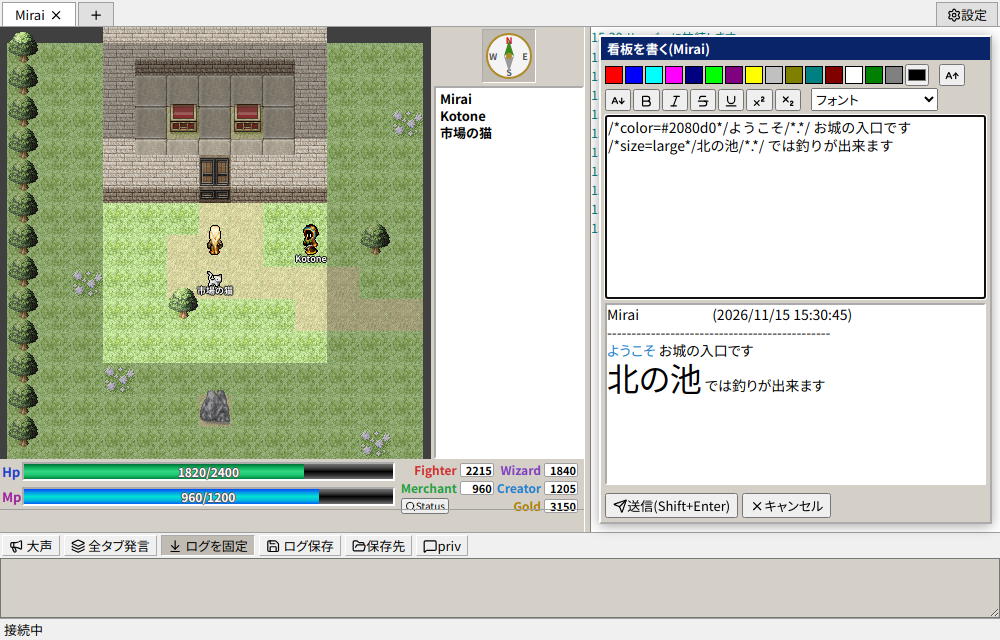
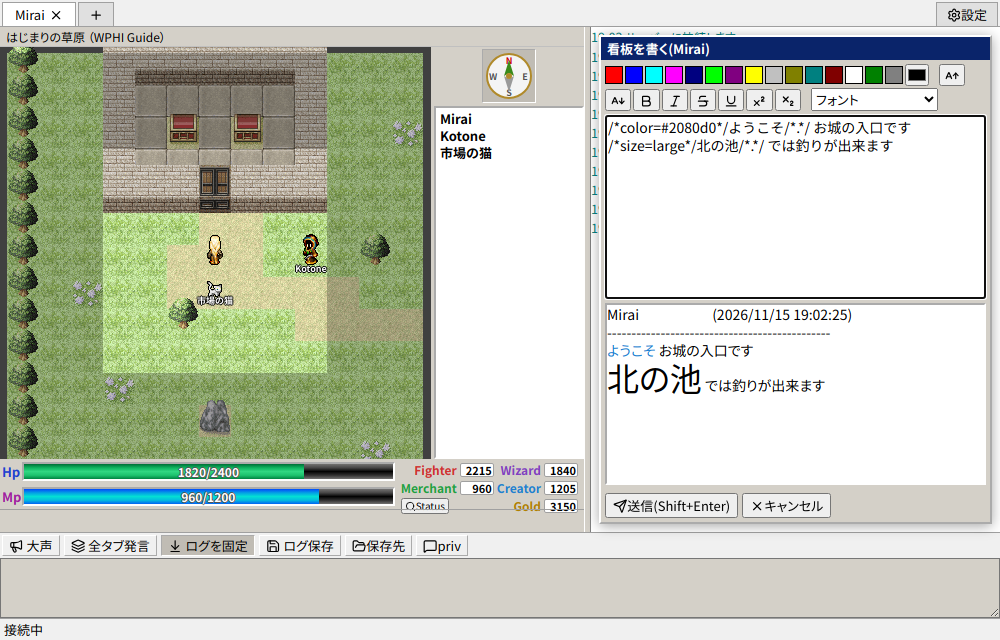
WPHI の利用者ガイドに地図の演出の一覧を足し、画像を撮り直す
吹き出し、武器と魔法の攻撃、回復、ミス・毒・麻痺、倒された時、強化と弱体の画像を載せる。
地図をログと同じ窓に出した時の地名の帯が入るよう、他の画像も撮り直す。

Claude-Session: https://claude.ai/code/session_016QXkCLvXA43vgPYyvc4kyT

Changed region(s): [[0.0, 0.0312, 0.589, 0.7188], [0.806, 0.4688, 0.837, 0.5]]

diff --git a/wphi/guide/index.html b/wphi/guide/index.html
@@ -26,6 +26,9 @@
   th, td { padding: 6px 8px; border-bottom: 1px solid var(--line); text-align: left; vertical-align: top; }
   .wrap { overflow-x: auto; }
   code, kbd { padding: 1px 4px; border-radius: 4px; background: var(--code); font-size: 0.9em; word-break: break-all; }
+  .fx-grid { display: grid; grid-template-columns: repeat(auto-fill, minmax(260px, 1fr)); gap: 8px 16px; }
+  .fx-grid figure { margin: 8px 0; }
+  .fx-grid figcaption { font-size: 0.92em; }
   .note { padding: 8px 12px; border-left: 4px solid var(--line); color: var(--sub); }
   footer { margin-top: 48px; color: var(--sub); font-size: 0.9em; }
 </style>
@@ -55,6 +58,7 @@
   <li><a href="#find">ログの検索</a></li>
   <li><a href="#keys">主なキー操作</a></li>
   <li><a href="#map">地図の表示</a></li>
+  <li><a href="#effects">地図の演出</a></li>
   <li><a href="#settings">設定</a></li>
   <li><a href="#help">困った時は</a></li>
 </ol>
@@ -218,7 +222,51 @@ priv の欄の下の入力欄に書くと、選んでいる相手に送ります
   <li><strong>地図の拡大率</strong>: <a href="#settings">設定</a>の「マップの拡大率」で % を指定します</li>
 </ul>
 
-<h2 id="settings">10. 設定</h2>
+<h2 id="effects">10. 地図の演出</h2>
+<p>
+ログに流れた発言や戦闘の行を読み取り、地図のキャラの上に吹き出しや数字を出します。<br>
+メニューの「表示」→「吹き出しと HP・MP の増減をマップに出す」で切り替えます。
+</p>
+<div class="fx-grid">
+  <figure>
+    <img src="images/effect-talk.png" alt="Kotone と市場の猫の上に出た吹き出し" width="300" height="170" loading="lazy">
+    <figcaption><strong>発言</strong>: 発言と priv を、話したキャラの上に吹き出しで出します。4秒で消えます</figcaption>
+  </figure>
+  <figure>
+    <img src="images/effect-slash.png" alt="攻撃を受けた猫の上の弧と、黄色の数字 12" width="300" height="170" loading="lazy">
+    <figcaption><strong>武器の攻撃</strong>: 攻撃を受けたキャラの上に弧を出し、減った HP を黄色の数字で出します</figcaption>
+  </figure>
+  <figure>
+    <img src="images/effect-bolt.png" alt="Kotone から猫へ飛ぶ水色の魔法弾" width="300" height="170" loading="lazy">
+    <figcaption><strong>魔法の攻撃</strong>: 唱えた呪文で攻撃した時は、唱えたキャラから魔法弾が飛びます</figcaption>
+  </figure>
+  <figure>
+    <img src="images/effect-heal.png" alt="Mirai の上の緑の +40 と、猫の上の水色の +8" width="300" height="170" loading="lazy">
+    <figcaption><strong>回復</strong>: 回復した HP を緑、MP を水色の数字で出します。減った MP は紫です</figcaption>
+  </figure>
+  <figure>
+    <img src="images/effect-status.png" alt="Mirai の上の MISS、猫の上の毒、Kotone の上の麻痺" width="300" height="170" loading="lazy">
+    <figcaption><strong>ミス・毒・麻痺</strong>: ミスした時は攻撃した側に MISS を出します。毒と麻痺は、受けたキャラにその文字を出します</figcaption>
+  </figure>
+  <figure>
+    <img src="images/effect-dead.png" alt="猫のいたマスが白く光っている" width="300" height="170" loading="lazy">
+    <figcaption><strong>倒された時</strong>: 倒されたキャラのマスが光り、上へ薄れて消えます</figcaption>
+  </figure>
+  <figure>
+    <img src="images/effect-buff.png" alt="Mirai の攻撃力↑と Kotone の防御率↑、足元の金色の光" width="300" height="170" loading="lazy">
+    <figcaption><strong>強化</strong>: 攻撃力などが上がると、足元から金色の光が立ち上ります。仲間にかけた時は仲間に出ます</figcaption>
+  </figure>
+  <figure>
+    <img src="images/effect-debuff.png" alt="猫の上の速度↓と青い光" width="300" height="170" loading="lazy">
+    <figcaption><strong>弱体</strong>: 速度などが下がると、青い光が上から沈みます</figcaption>
+  </figure>
+</div>
+<p class="note">
+演出はログの文面から決めています。サーバによって文面が違うと、出ない演出があります。<br>
+同じ名前のキャラが複数いる時は、自分に一番近いキャラに出します。
+</p>
+
+<h2 id="settings">11. 設定</h2>
 <p>タブの右端の「設定」で開きます。</p>
 <figure>
   <img src="images/settings.png" alt="キー操作、効果音、ログ、ファンクションキーの設定" width="1000" height="640" loading="lazy">
@@ -238,7 +286,7 @@ priv の欄の下の入力欄に書くと、選んでいる相手に送ります
 設定フォルダを他人に渡さないでください。
 </p>
 
-<h2 id="help">11. 困った時は</h2>
+<h2 id="help">12. 困った時は</h2>
 <ul>
   <li><strong>窓が画面の外に出て見えない</strong>: メニューの「ツール」→「窓の位置を元に戻す(安心ボタン)」を選んでください</li>
   <li><strong>キャラやマップチップが四角や別の絵になる</strong>: <a href="#download">キャラグラとマップチップを取得</a>してください。自分で画像を足した時は、「ツール」→「画像を読み直す」で読み直します</li>
